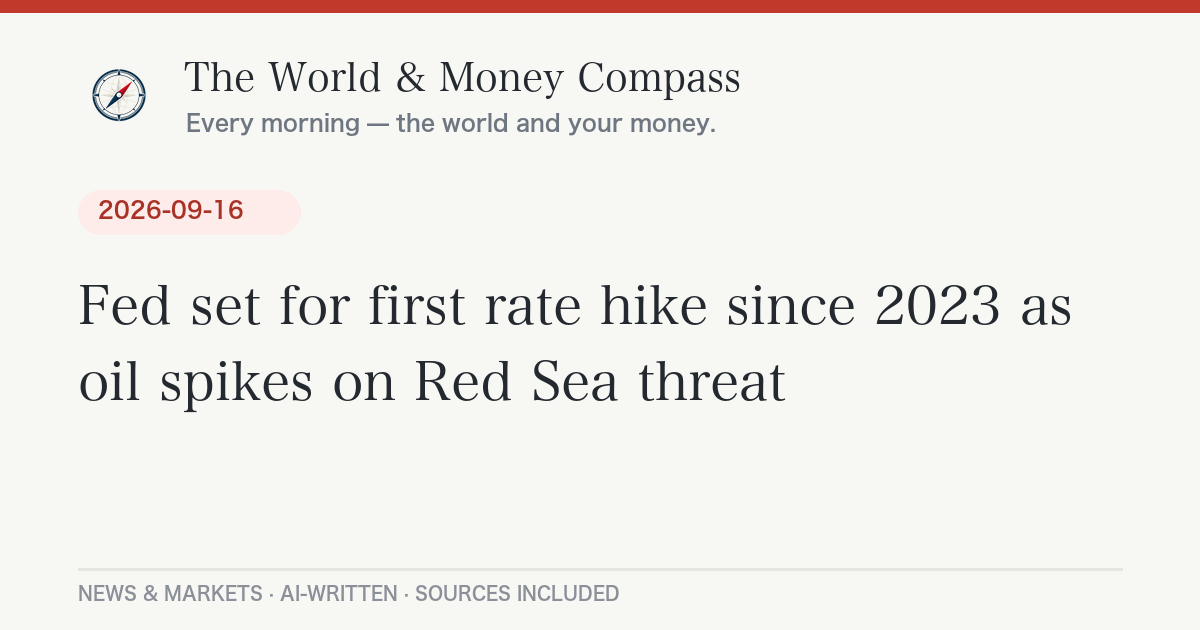
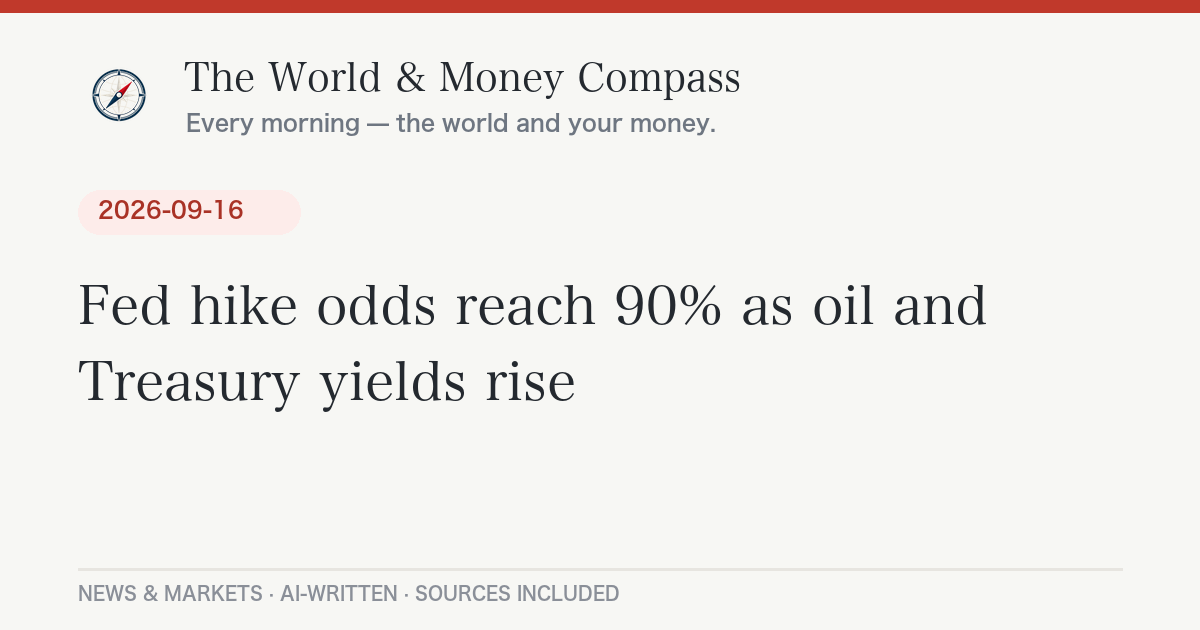
Daily briefing 2026-09-18

Changed region(s): [[0.1542, 0.4524, 0.8942, 0.5127], [0.0617, 0.573, 0.6475, 0.6635]]

diff --git a/_posts/2026-09-18-daily-briefing.md b/_posts/2026-09-18-daily-briefing.md
@@ -1,0 +1,92 @@
+---
+layout: post
+lang: ja
+title: "高市改造内閣が発足、日本維新の会から初入閣｜9月18日のニュースとお金"
+date: 2026-09-18 07:40:03 +0900
+categories: [ニュース, 経済]
+headline: "高市改造内閣が発足、日本維新の会から初入閣"
+permalink: /2026/09/18/daily-briefing/
+---
+
+## 今日のポイント
+
+9月17日、高市早苗首相が内閣改造を行い、第2次高市改造内閣が発足しました。日本維新の会から中司宏氏が規制改革担当相として初入閣し、自民・維新の「閣内協力」が本格的に始まりました。財務相・外相・防衛相は留任で経済政策の骨格は維持されています。一方、市場ではアメリカが3年ぶりの利上げに動き、日本銀行も本日、追加利上げに踏み切るかどうかの判断を下します。日米そろっての金融引き締め局面と、日本の新体制発足が重なる節目の一日です。
+
+## 今日の羅針盤（Compass Insight）
+
+今日は「政治の一新」と「金融引き締め」が同時に進む珍しい局面です。アメリカは9月16日に3年ぶりとなる利上げに踏み切り、ドルが対円で上昇しました。日本銀行も本日の会合で政策金利を1.00%程度から1.25%程度へ引き上げるとの観測がほぼ織り込まれています。実現すれば1993年以来の高い水準です。家計への影響で言えば、住宅ローンを変動金利で借りている人は返済負担がじわりと増える一方、円安の勢いが一服すれば輸入品や光熱費の値上がりペースは和らぐ可能性があります。短期的には、今日午後に予定される植田総裁の記者会見の言葉遣い——追加利上げに前のめりか慎重か——で円相場が振れやすい点に注目です。中長期では、「強い経済」を掲げる高市改造内閣の財政運営と、金利を上げていく日銀の金融政策が、同じ方向を向くのか綱引きになるのかが焦点になります。株式や為替への投資判断は、こうした綱引きの行方を見極めながら慎重に行うのが良さそうです。
+
+## 今日のニュース
+
+### 日本
+- 高市早苗首相が内閣改造を行い、第2次高市改造内閣が発足。財務相の片山さつき氏、外相の茂木敏充氏、防衛相の小泉進次郎氏は留任し、日本維新の会の中司宏前幹事長が規制改革担当相として初入閣した。18ポスト中10ポストが交代し、初入閣は7人。（[日本経済新聞](https://www.nikkei.com/article/DGXZQOUA152770V10C26A9000000/)）
+- 日本銀行が9月17〜18日に金融政策決定会合を開催中。政策金利を無担保コール翌日物で1.00%程度から1.25%程度へ引き上げるとの観測が市場でほぼ織り込まれており、結果は18日昼ごろ公表、植田和男総裁の記者会見は15時30分から予定されている。（[日本経済新聞](https://www.nikkei.com/article/DGXZQOUB14AQ50U6A910C2000000/)）
+- 知床観光船沈没事故で、沈没直前に乗客が撮影した船内映像が復元・公開された。
+- 大型の台風25号が南鳥島近海を北上しており、気象庁は21日に関東沖を通過する可能性があると発表した。
+
+### 世界
+- ポーランドのトゥスク首相が、ロシアがポーランドなど対ウクライナ支援国へのドローン・ミサイル攻撃を計画しているとの情報機関の分析結果を明らかにした。ロシアは高速・高高度で飛行するジェット推進型ドローンの投入を進めているとされる。（[Euronews](https://www.euronews.com/my-europe/2026/09/17/tusk-intelligence-sees-russian-plan-for-drone-strikes-on-poland-allies)、[Bloomberg](https://www.bloomberg.com/news/articles/2026-09-17/poland-warns-that-russia-plans-to-strike-ukraine-s-nato-allies)）
+- 北朝鮮の国防次官が、北京で開催される安全保障フォーラム「香山フォーラム」に7年ぶりに出席する見通し。
+
+### アメリカ
+- 米連邦準備制度理事会（FRB）が9月16日、政策金利を0.25%引き上げ3.75〜4.00%とした。3年ぶりの利上げで、ウォーシュ議長はインフレの根強さを指摘。発表直後はダウ平均が631ドル安となるなど株式市場が一時大きく下落した。（[CNBC](https://www.cnbc.com/2026/09/15/stock-market-today-live-updates.html)、[Bloomberg](https://www.bloomberg.com/news/articles/2026-09-16/dollar-jumps-after-fed-raises-rates-sends-hawkish-signal)）
+- ニューヨーク・セントラルパークで9月26日開催予定の「グローバル・シチズン・フェスティバル」の出演者にレニー・クラヴィッツ、ジョン・レジェンドらが発表された。
+
+### ヨーロッパ
+- ポーランド東部で警戒レベルが引き上げられ、一部地域で空襲警報が鳴った。ロシアによるハイブリッド攻撃への警戒が続く。
+- チャールズ英国王が、AI（人工知能）は人間の管理下に置かれるべきだと発言した。
+- イタリア・フィレンツェで集中豪雨が発生し、ウフィツィ美術館やピッティ宮殿に雨水が流れ込んだ。
+
+## 経済とお金の動き
+
+9月17日の世界の主要市場は、前日のFRB利上げを無難に通過した安心感から総じて堅調でした。
+
+| 指標 | 終値・レート | 前日比 |
+|---|---|---|
+| 日経平均株価 | [64,136.25円](https://www.zaikei.co.jp/article/20260917/870541.html) | <span class="chg-up">+213.25円（+0.33%）</span> |
+| TOPIX | 4,094.19pt | <span class="chg-up">+32.47pt（+0.80%）</span> |
+| NYダウ | [51,778.04ドル](https://www.bloomberg.com/news/articles/2026-09-16/stock-market-today-dow-s-p-live-updates) | <span class="chg-up">+316.14ドル（+0.61%）</span> |
+| S&P500 | 7,637.76 | <span class="chg-up">+85.95（+1.14%）</span> |
+| ナスダック総合 | [26,418.30](https://ts2.tech/en/nasdaq-ends-at-26418-falling-oil-and-yields-drive-the-post-fed-rebound/) | <span class="chg-up">+439.87（+1.69%）</span> |
+| ドル円 | [155.69円](https://api.frankfurter.app/latest?from=USD&to=JPY)（9/17基準） | 前日から円安方向 |
+| WTI原油 | [101.09ドル/バレル](https://www.oanda.jp/lab-education/market_news/2026_09_17_wtioil/) | <span class="chg-down">-1.34ドル（-1.30%）</span> |
+
+**世界の経済と原油・相場**　FRBの3年ぶり利上げでドルは対主要通貨で大きく上昇しました。一方、原油はサウジアラビアの東西パイプライン復旧報道などを受けて供給懸念が後退し、3営業日ぶりに下落。株式市場は利上げ発表直後こそ急落したものの、翌17日には長期金利の上昇一服や原油安を好感して主要3指数がそろって反発しました。
+
+**アメリカの経済**　FRBは政策金利を3.75〜4.00%とし、年内あと1回の利上げを示唆する「タカ派」的な内容でした。インフレの根強さが利上げの背景にあり、大手銀行株が2月以来の下落幅を記録するなど金融株への警戒感も見られました。
+
+**日本の経済**　東京市場は日米の金利動向をにらみつつも底堅く推移。前半は半導体関連に利益確定売りが出た一方、後半は金利上昇による利ざや改善期待から銀行・保険株に買いが広がりました。ドル円は155円台後半で推移しており、本日の日銀会合の結果次第で振れやすい地合いです。
+
+## 今日の注目銘柄・セクター
+
+- **半導体関連（アドバンテスト、東京エレクトロンなど）**：前日の米フィラデルフィア半導体指数（SOX）高を受けて朝方は買われたものの、日米の金利上昇への警戒から後場にかけて利益確定売りが優勢となった。
+- **銀行・保険株**：日銀の追加利上げ観測を受け、貸出金利ざやの改善期待から資金が流入した。
+- **防衛関連（三菱重工業など）**：政府による防衛産業への融資拡大を巡る報道を受けて買いが集まった。（[日本経済新聞](https://www.nikkei.com/article/DGXZQOUB175WU0X10C26A9000000/)）
+
+*※特定銘柄の売買を推奨するものではありません。投資判断はご自身の責任で。*
+
+## まとめ：注目の3つ
+
+1. 本日昼に公表される日銀の政策金利決定と、15時30分からの植田総裁会見のトーン
+2. FRBのタカ派利上げが続く中でのドル円相場の値動き
+3. 維新初入閣で始動した高市改造内閣の経済政策運営
+
+---
+<div class="post-sources" markdown="1">
+
+**出典：**
+- [高市改造内閣が発足 藤井比早之・総務相や笹川博義・環境相ら初入閣7人（日本経済新聞）](https://www.nikkei.com/article/DGXZQOUA152770V10C26A9000000/)
+- [日銀利上げ「次の次」はいつ？ 18日総裁会見、3つの注目ワード（日本経済新聞）](https://www.nikkei.com/article/DGXZQOUB14AQ50U6A910C2000000/)
+- [Tusk: intelligence sees Russian plan for drone strikes on Poland, allies（Euronews）](https://www.euronews.com/my-europe/2026/09/17/tusk-intelligence-sees-russian-plan-for-drone-strikes-on-poland-allies)
+- [Poland Warns That Russia Plans to Strike Ukraine's NATO Allies（Bloomberg）](https://www.bloomberg.com/news/articles/2026-09-17/poland-warns-that-russia-plans-to-strike-ukraine-s-nato-allies)
+- [Dollar Rises as Fed Hikes Rates, Signals Possible Further Increase This Year（Bloomberg）](https://www.bloomberg.com/news/articles/2026-09-16/dollar-jumps-after-fed-raises-rates-sends-hawkish-signal)
+- [Dow drops 600 points as Fed rate hike and Warsh's inflation talk unnerve investors（CNBC）](https://www.cnbc.com/2026/09/15/stock-market-today-live-updates.html)
+- [日経平均大引け：前日比213.25円高の64136.25円（財経新聞）](https://www.zaikei.co.jp/article/20260917/870541.html)
+- [Nasdaq Ends at 26,418; Falling Oil and Yields Drive the Post-Fed Rebound](https://ts2.tech/en/nasdaq-ends-at-26418-falling-oil-and-yields-drive-the-post-fed-rebound/)
+- [WTI原油見通し：原油価格は3営業日ぶりに下落（OANDA証券）](https://www.oanda.jp/lab-education/market_news/2026_09_17_wtioil/)
+- [三菱重工など防衛関連株高い 産業融資報道に期待（日本経済新聞）](https://www.nikkei.com/article/DGXZQOUB175WU0X10C26A9000000/)
+- 為替レート: [frankfurter API](https://api.frankfurter.app/)
+
+*本記事は公開情報をもとに作成しています。*
+
+</div>

diff --git a/_posts/2026-09-18-daily-briefing-en.md b/_posts/2026-09-18-daily-briefing-en.md
@@ -1,0 +1,56 @@
+---
+layout: post
+lang: en
+title: "Takaichi reshuffles cabinet, first-ever minister from coalition partner Ishin — September 18, 2026"
+date: 2026-09-18 07:40:03 +0900
+headline: "Takaichi reshuffles cabinet, first-ever minister from coalition partner Ishin"
+permalink: /2026/09/18/daily-briefing/
+---
+
+## Top U.S. Stories
+
+- The Federal Reserve raised its benchmark rate by a quarter point to 3.75%-4.00% on September 16, its first hike in more than three years. *Why it matters:* Chair Kevin Warsh flagged persistent inflation and signaled the committee may hike again this year, a hawkish tone that sent the dollar to its best day in three months and briefly knocked more than 600 points off the Dow. ([CNBC](https://www.cnbc.com/2026/09/15/stock-market-today-live-updates.html), [Bloomberg](https://www.bloomberg.com/news/articles/2026-09-16/dollar-jumps-after-fed-raises-rates-sends-hawkish-signal))
+- U.S. stocks rebounded on September 17 as Treasury yields and oil prices eased, with the Dow closing at 51,778.04 (+316.14, +0.61%), the S&P 500 at 7,637.76 (+85.95, +1.14%) and the Nasdaq Composite at 26,418.30 (+439.87, +1.69%). *Why it matters:* the bounce suggests investors see the Fed's move as manageable for now, though bank stocks had their worst day since February on fears of further hikes. ([Bloomberg](https://www.bloomberg.com/news/articles/2026-09-16/stock-market-today-dow-s-p-live-updates), [ts2.tech](https://ts2.tech/en/nasdaq-ends-at-26418-falling-oil-and-yields-drive-the-post-fed-rebound/))
+- Poland's Prime Minister Donald Tusk said intelligence services see a Russian plan for drone and missile strikes on Poland and other NATO allies backing Ukraine. *Why it matters:* it raises the risk of a wider escalation just as Russia is reportedly deploying faster, higher-altitude jet-powered drones. ([Euronews](https://www.euronews.com/my-europe/2026/09/17/tusk-intelligence-sees-russian-plan-for-drone-strikes-on-poland-allies), [Bloomberg](https://www.bloomberg.com/news/articles/2026-09-17/poland-warns-that-russia-plans-to-strike-ukraine-s-nato-allies))
+- Japan's Prime Minister Sanae Takaichi reshuffled her cabinet on September 17, bringing coalition partner Japan Innovation Party (Ishin) into government for the first time, with former secretary-general Hiroshi Nakatsuka named minister for regulatory reform. Finance Minister Satsuki Katayama, Foreign Minister Toshimitsu Motegi and Defense Minister Shinjiro Koizumi all kept their posts. ([Nikkei](https://www.nikkei.com/article/DGXZQOUA152770V10C26A9000000/))
+- The Bank of Japan is meeting September 17-18 and is widely expected to raise its policy rate a quarter point to around 1.25%, which would be its highest level since 1993. A decision is due around midday Tokyo time on the 18th, with Governor Kazuo Ueda's press conference at 3:30 p.m. ([Nikkei](https://www.nikkei.com/article/DGXZQOUB14AQ50U6A910C2000000/))
+- WTI crude fell to $101.09 a barrel on September 17 (-1.30%) as supply concerns eased on reports Saudi Arabia is restoring a key pipeline. *Why it matters:* softer oil helped fuel the U.S. equity rebound. ([OANDA](https://www.oanda.jp/lab-education/market_news/2026_09_17_wtioil/))
+
+## Compass Insight
+
+Today brings an unusual overlap: a fresh Japanese cabinet and a synchronized tightening cycle at two major central banks. The Fed's hike Tuesday, followed by a Bank of Japan decision expected today, both push the same direction — higher borrowing costs. For households, that likely means a bit more pressure on variable-rate mortgages, while any pause in yen weakness could take some edge off import and energy price increases. In the short run, watch the tone of Governor Ueda's press conference this afternoon — hawkish language could strengthen the yen further, while caution could reopen the door to yen weakness. Over the medium term, the real story to watch is whether Prime Minister Takaichi's growth-oriented fiscal agenda and the BOJ's tightening path pull in the same direction or start to work against each other. Nothing here is investment advice — just points worth watching as the picture develops.
+
+## Markets
+
+- Nikkei 225 (Sept 17 close): 64,136.25, +213.25 (+0.33%)
+- TOPIX: 4,094.19, +32.47 (+0.80%)
+- Dow: 51,778.04, +316.14 (+0.61%)
+- S&P 500: 7,637.76, +85.95 (+1.14%)
+- Nasdaq Composite: 26,418.30, +439.87 (+1.69%)
+- USD/JPY: [155.69](https://api.frankfurter.app/latest?from=USD&to=JPY) (as of Sept 17)
+- WTI crude: $101.09/barrel, -1.30%
+
+## Stocks in Focus
+
+- **Semiconductors (Advantest, Tokyo Electron):** rallied early on a strong Philadelphia Semiconductor Index overnight, then gave back gains on profit-taking as rate worries in both Japan and the U.S. resurfaced.
+- **Banks and insurers:** drew buying on hopes that rising rates in Japan will widen lending margins.
+- **Defense (Mitsubishi Heavy Industries):** rose on reports of expanded government financing support for the defense industry. ([Nikkei](https://www.nikkei.com/article/DGXZQOUB175WU0X10C26A9000000/))
+
+*This is not a recommendation to buy or sell any security.*
+
+<div class="post-sources" markdown="1">
+
+**Sources:**
+- [Takaichi cabinet reshuffle, seven new ministers (Nikkei)](https://www.nikkei.com/article/DGXZQOUA152770V10C26A9000000/)
+- [BOJ September meeting preview (Nikkei)](https://www.nikkei.com/article/DGXZQOUB14AQ50U6A910C2000000/)
+- [Tusk: intelligence sees Russian plan for drone strikes on Poland, allies (Euronews)](https://www.euronews.com/my-europe/2026/09/17/tusk-intelligence-sees-russian-plan-for-drone-strikes-on-poland-allies)
+- [Poland warns Russia plans to strike Ukraine's NATO allies (Bloomberg)](https://www.bloomberg.com/news/articles/2026-09-17/poland-warns-that-russia-plans-to-strike-ukraine-s-nato-allies)
+- [Dollar jumps after Fed raises rates, sends hawkish signal (Bloomberg)](https://www.bloomberg.com/news/articles/2026-09-16/dollar-jumps-after-fed-raises-rates-sends-hawkish-signal)
+- [Dow drops 600 points as Fed rate hike unnerves investors (CNBC)](https://www.cnbc.com/2026/09/15/stock-market-today-live-updates.html)
+- [Nasdaq ends at 26,418; falling oil and yields drive post-Fed rebound](https://ts2.tech/en/nasdaq-ends-at-26418-falling-oil-and-yields-drive-the-post-fed-rebound/)
+- [WTI crude falls for the first time in three sessions (OANDA)](https://www.oanda.jp/lab-education/market_news/2026_09_17_wtioil/)
+- Exchange rate: [frankfurter API](https://api.frankfurter.app/)
+
+*Auto-generated and AI-written. Not investment advice.*
+
+</div>
